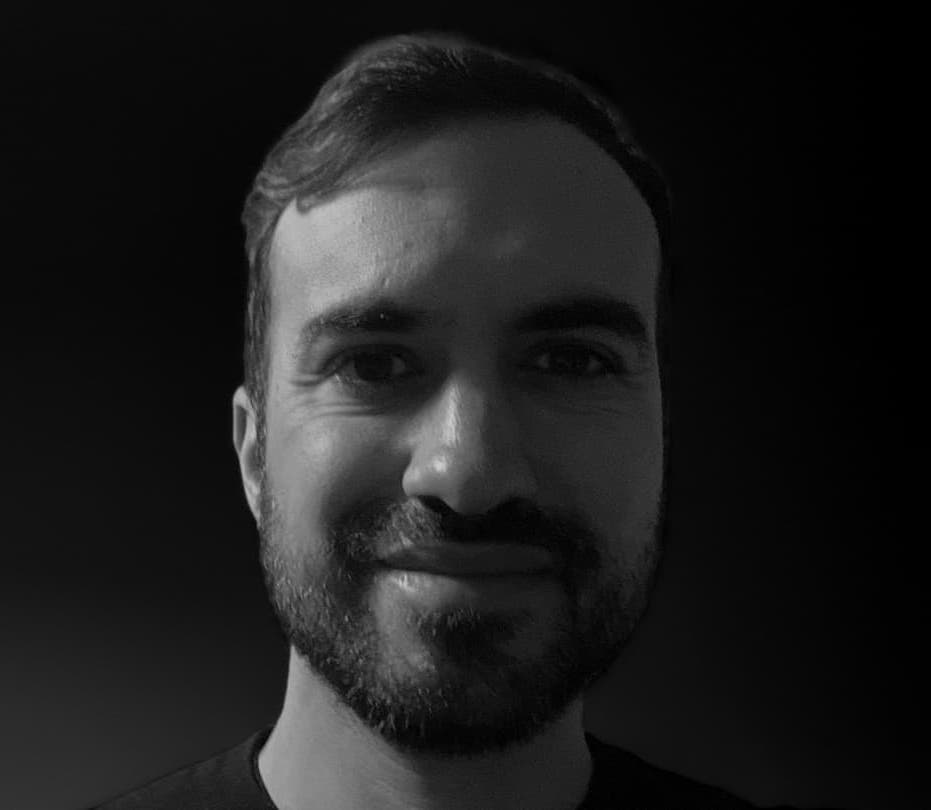
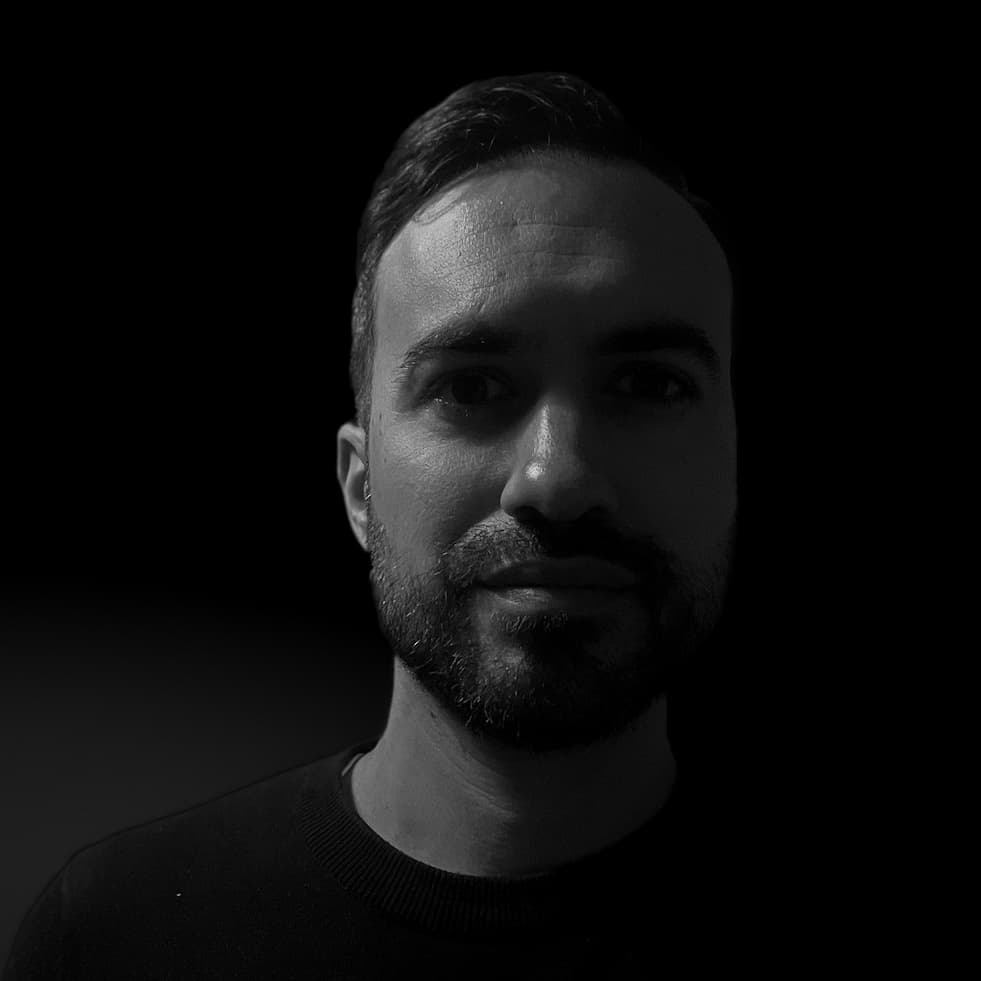
update about page
update photo and delete some text

Changed region(s): [[0.0, 0.0309, 0.7164, 1.0], [0.5918, 0.2469, 0.623, 0.2778]]

diff --git a/about.html b/about.html
@@ -158,22 +158,6 @@
             </div>
     </section>
 
-    <section id="education" class="full-height">
-            <div class="container mt-5">
-                <div class="row" data-aos="fade-right" data-aos-offset="300" data-aos-easing="ease-in-sine" data-aos-duration="800" data-aos-once="none">
-                    <h3 class="display-6 mt-0 mb-5">Education</h3>
-                </div>
-
-                <div class="row pt-1 mb-5 mt-2">
-                    <div class="col-md-6" data-aos="fade-right" data-aos-offset="300" data-aos-easing="ease-in-sine" data-aos-duration="800" data-aos-once="none">
-                        <h6>Staatl. Berufsschule Wolfrats.</h6>
-                    </div>
-
-                    <div class="col-md-6" data-aos="fade-right" data-aos-offset="300" data-aos-easing="ease-in-sine" data-aos-duration="800" data-aos-once="none">
-                        <p>Office Communication Specialist</p>
-                    </div>
-    </section>
-
 
      <!--Subfooter-->
      <section id="subfooter">

diff --git a/assets/js/script.js b/assets/js/script.js
@@ -38,3 +38,5 @@ function SendMail () {
     })
     .catch(err=>console.log(err));
 }
+
+AOS.init();
